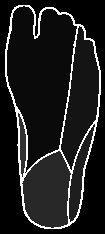
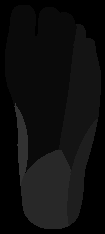
boundaries removed

diff --git a/outputs/logs.html b/outputs/logs.html
@@ -2,10 +2,24 @@
 
  <br> >>> </br>  Se ha cambiado exitosamente el colormap de entrada a Hierro
 
- <br> >>> </br>  No se ha creado una sesion. Creando nueva...
+ <br> >>> </br>  Se ha importado exiosamente la sesión /home/juan/Downloads/Images-20220217T141941Z-001/Images 
 
- <br> >>> </br>  Sesión outputs/2022-02-16_18:17 creada exitosamente.
+ <br> >>> </br>  Segmentando toda la sesión...
 
- <br> >>> </br>  Segmentando imagen...
+ <br> >>> </br>  Se ha segmentado exitosamente la sesion con default_model.tflite
 
- <br> >>> </br>  Imagen segmentada exitosamente
+ <br> >>> </br>  No se han extraido las temperaturas, extrayendo...
+
+ <br> >>> </br>  Obteniendo temperaturas...
+
+ <br> >>> </br>  Obteniendo temperaturas de la sesión...
+
+ <br> >>> </br>  La temperatura media es: [26.937249796180545, 26.39065619708921]
+
+ <br> >>> </br>  La escala leida es: (22.6, 34.0)
+
+ <br> >>> </br>  Se generara plot de temperatura...
+
+ <br> >>> </br>  Se ha generado exitosamente el plot completo de sesión
+
+ <br> >>> </br>  Se ha generado exitosamente el plot completo de sesión

diff --git a/dermatomes.py b/dermatomes.py
@@ -25,11 +25,10 @@ def plot_predict(y,y_pred):
     return image
 
 
-def refine_contour(dermatomes):
+def define_contour(dermatomes):
     without_contours = dermatomes.copy()
-    without_contours[dermatomes==255] = 0
+    
     uniques = sorted(np.unique(without_contours))[1:]
-
     for unique in uniques:
         binary_img = (without_contours==unique).astype('uint8')
         contours, _ = cv2.findContours(binary_img,cv2.RETR_TREE,cv2.CHAIN_APPROX_SIMPLE)
@@ -140,7 +139,7 @@ def get_dermatomes(fixed_image,path_right_foot='images/dermatomes.png',path_left
     right_dermatomes = cv2.flip(cv2.imread(path_right_foot)[...,2],1)
 
     left_dermatomes = cv2.imread(path_left_foot)[...,2] 
-    left_dermatomes[(left_dermatomes!=0)&(left_dermatomes!=255)] = left_dermatomes[(left_dermatomes!=0)&(left_dermatomes!=255)] + 1 
+    left_dermatomes[left_dermatomes!=0] = left_dermatomes[left_dermatomes!=0] + 1 
 
 
     right_foot,left_foot, coord = extract_feet(fixed_image)
@@ -152,7 +151,7 @@ def get_dermatomes(fixed_image,path_right_foot='images/dermatomes.png',path_left
     output_dermatomes[coord[0][0]:coord[0][1],coord[0][2]:coord[0][3]] = right_dermatomes
     output_dermatomes[coord[1][0]:coord[1][1],coord[1][2]:coord[1][3]] = left_dermatomes
 
-    output_dermatomes =  refine_contour(output_dermatomes)
+    output_dermatomes =  define_contour(output_dermatomes)
     return output_dermatomes
 
 
